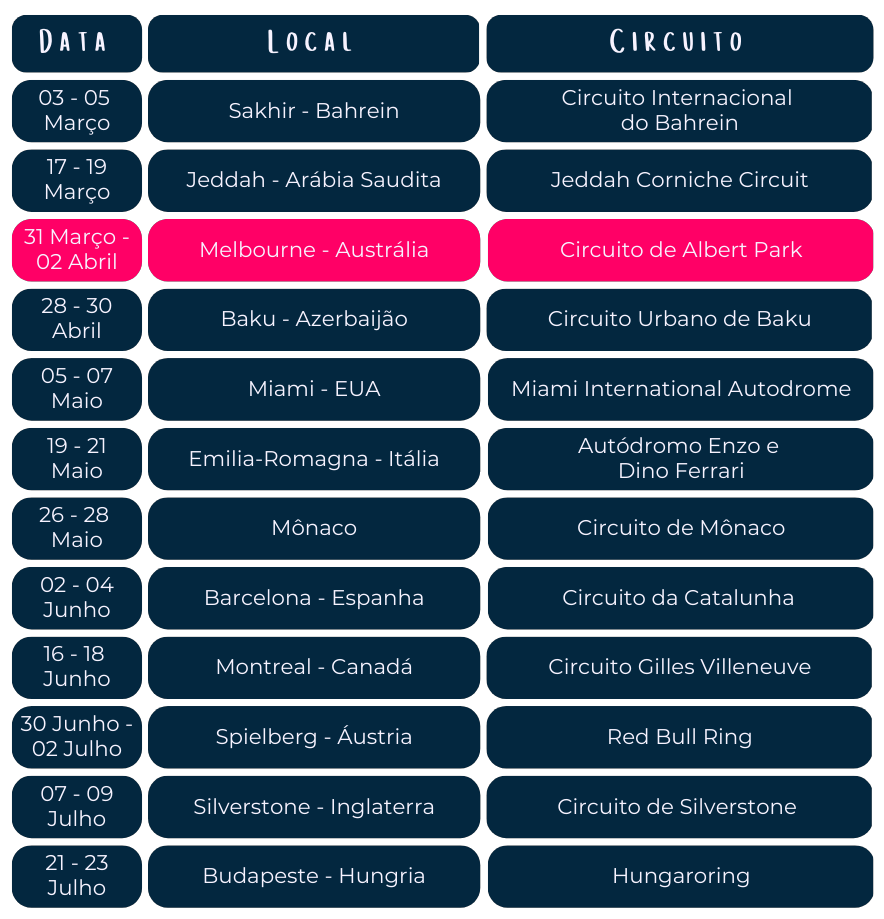
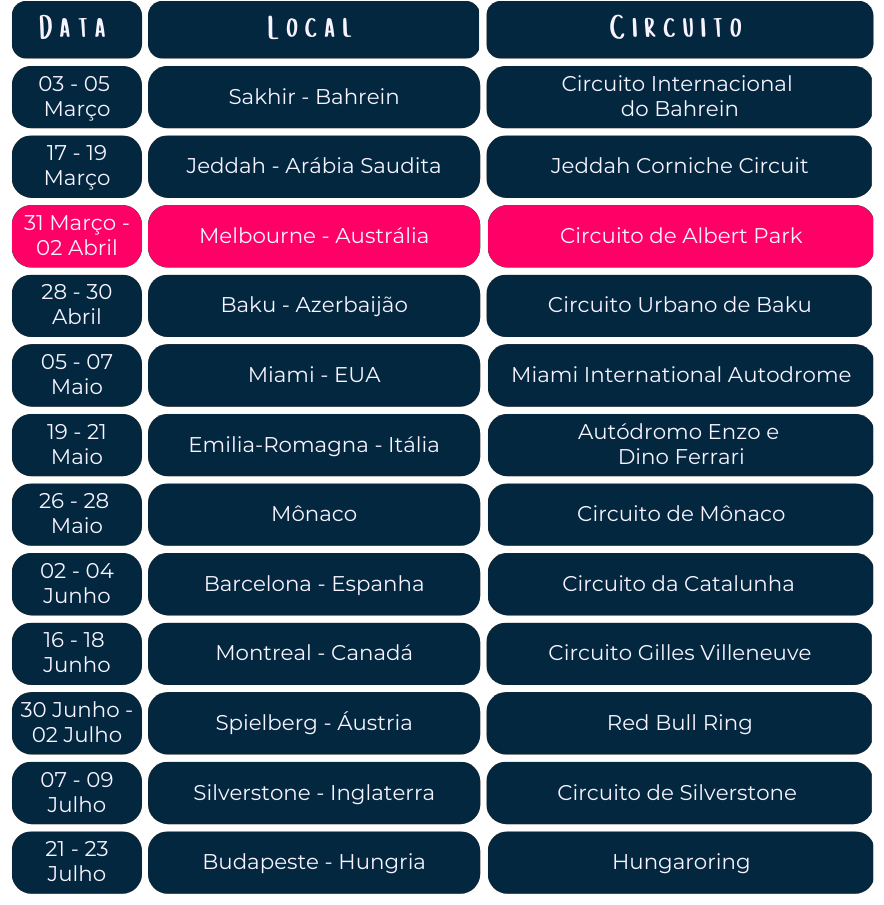
atua

Changed region(s): [[0.0, 0.0, 1.0, 0.9901]]

diff --git a/paginas/camp-f1.html b/paginas/camp-f1.html
@@ -15,7 +15,7 @@
     <meta name="viewport" content="width=device-width, initial-scale=1.0">
       <script src="https://kit.fontawesome.com/d4fdd08a54.js" crossorigin="anonymous"></script>
     <title>Campeonato - F1</title>
-    <link rel="shortcut icon" href="../scr/Logo Redondo - sem fundo.png" type=image/x-icon">
+    <link rel="shortcut icon" href="../scr/Logo Redondo - sem fundo.png" type=image/x-icon>
     <link rel="stylesheet" href="./camp-f1.css">
 </head>
 <body>

diff --git a/paginas/calen-f1.css b/paginas/calen-f1.css
@@ -90,15 +90,16 @@ a {
 
 .calendario1 {
     opacity: .9;
-    margin-top: 19px;
-    height: 550px;
-    width: 650px;
+    margin-top: 10px;
+    height: 535px;
+    width: 640px;
 }
 
 .calendario2 {
     opacity: .9;
-    height: 550px;
-    width: 650px;
+    margin-top: 39px;
+    height: 535px;
+    width: 640px;
 }
 
 

diff --git a/paginas/camp-f1.css b/paginas/camp-f1.css
@@ -103,7 +103,7 @@ a {
 .camp {
     opacity: .9;
     margin-top: 40px;
-    height: 525px;
+    height: 530px;
     width: 600px;
    
 }
@@ -111,7 +111,7 @@ a {
 .campequipes {
     opacity: .9;
     margin-top: 38px;
-    height: 525px;
+    height: 530px;
     width: 600px;
 }
 
